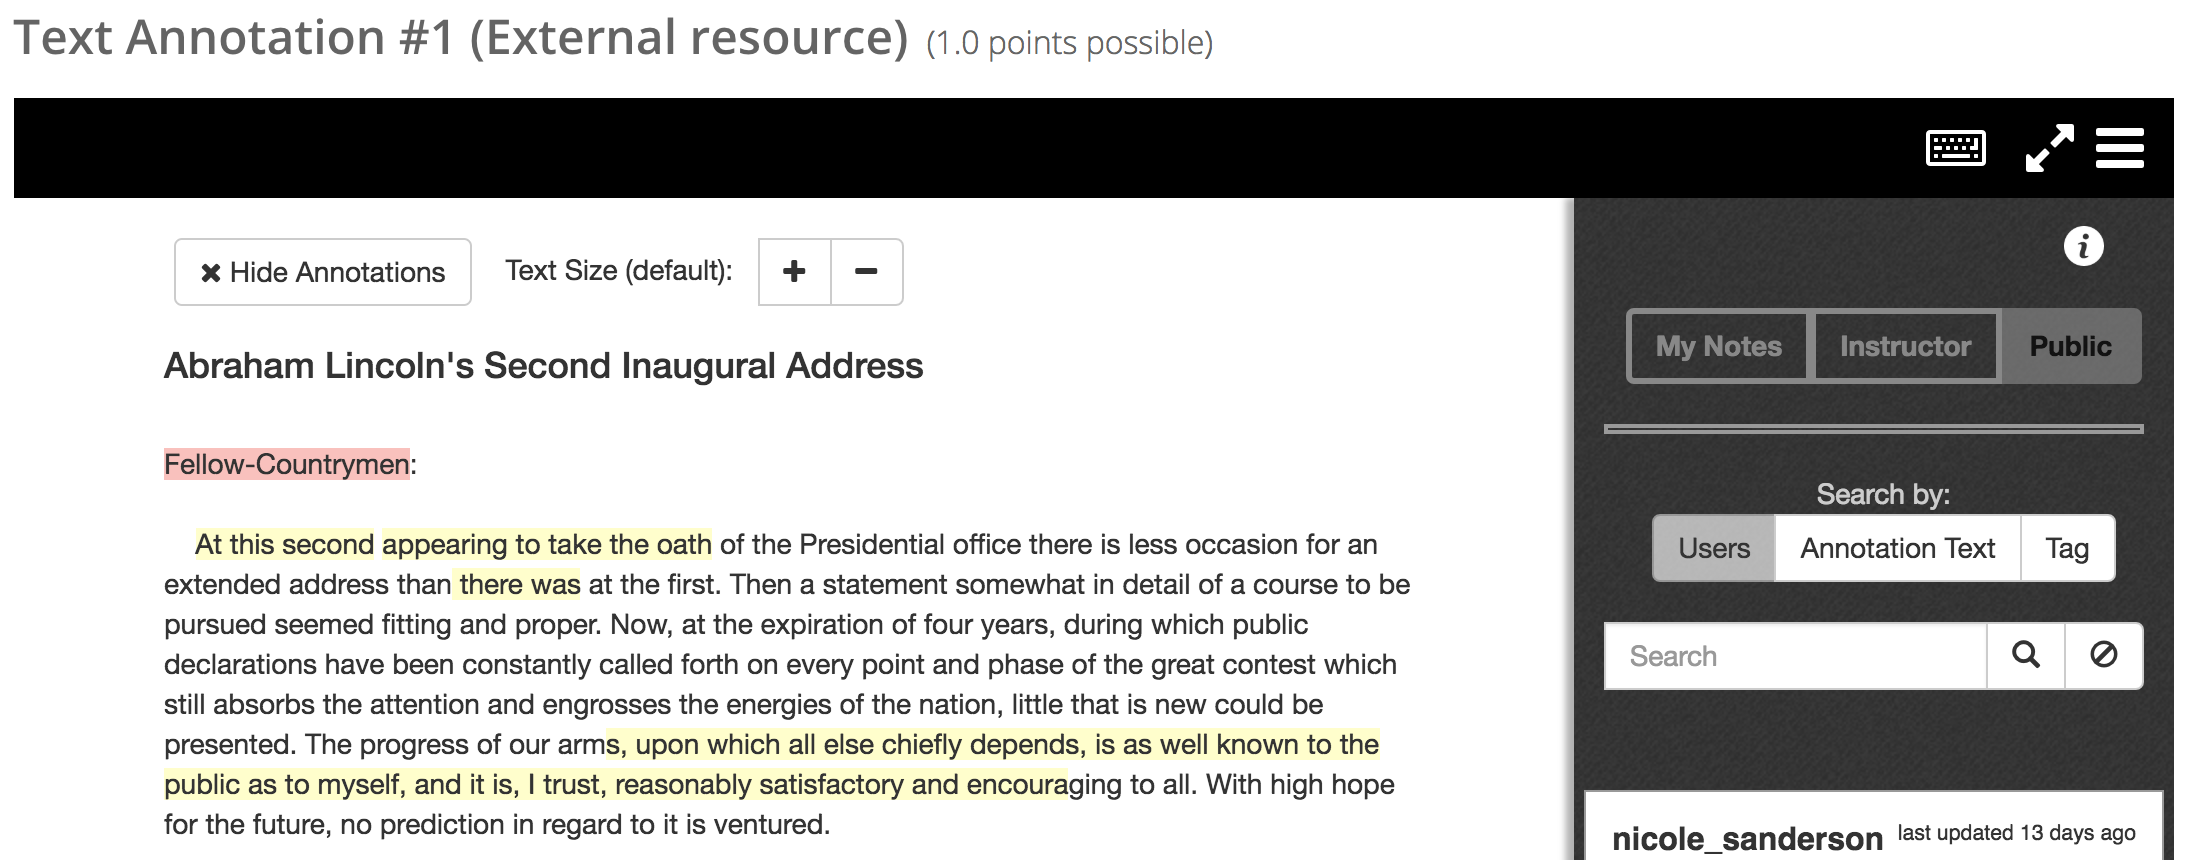
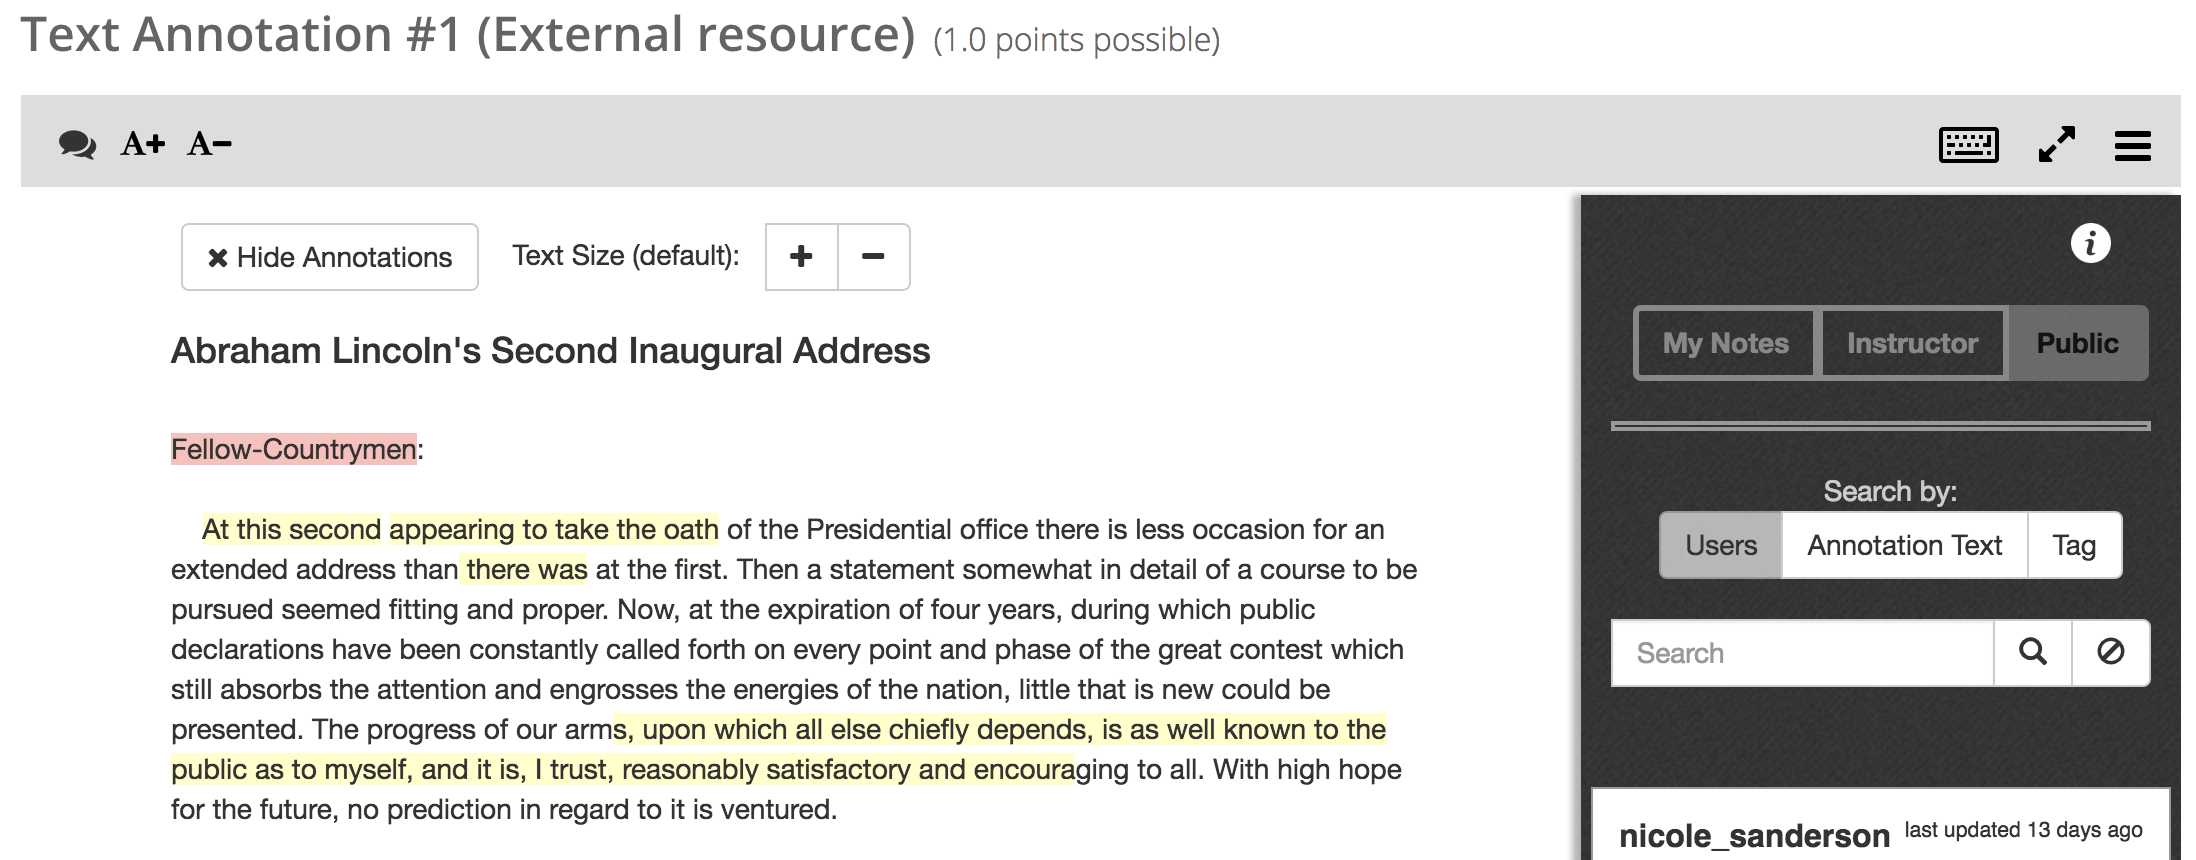
Add files via upload
Proposed nav bar for Text Annotation

diff --git a/UX/hxat-textAnnotation_navbar/index.html b/UX/hxat-textAnnotation_navbar/index.html
@@ -8,8 +8,8 @@
 <!--css/annotation_base.4c072fc38ef7.css-->
 #navigationBar {
     position: fixed;
-    height: 50px;
-    background: black;
+    height: 46px;
+    background: #dddddd;
     top: 0;
     display: block;
     width: 100%;
@@ -18,9 +18,10 @@
 }
 
 .pagination {
-    width: 300px;
+    width: 200px;
     overflow: auto;
     margin-top: 0px;
+    margin-left: 1em;
 }
 
 #keyboard-input-toggle-text {
@@ -28,23 +29,23 @@
     float: right;
     margin-top: 10px;
     font-size: 2em;
-    color: white;
+    color: black;
     cursor: pointer;
 }
 
 .annotation-fullscreen {
-    color: white;
+    color: black;
     float: right;
-    margin-right: 50px;
-    margin-top: 5px;
-    font-size: 2em;
+    margin-right: 53px;
+    margin-top: 9px;
+    font-size: 1.5em;
     cursor: pointer;
 }
 
 .handle-button {
     position: absolute;
     float: right;
-    top: 5px;
+    top: 10px;
     right: 15px;
     font-size: 2em;
     color: white;
@@ -54,13 +55,31 @@
 <!--css/instructions.92de67b8ccc3.css-->
 .target-object-controls {
     padding: 10px 0;
-    margin: 10px 0 0 0;
+    margin: 4px 0 0 0;
 }
 
 <!--UI code-->
 <nav role="navigation" id="navigationBar" aria-label="Annotation Tool">
 
     <div class="pagination">
+
+        <div class="btn-toolbar target-object-controls" role="toolbar" aria-label="Annotation toolbar controls">
+            <div class="btn-group" role="group" aria-label="Hide or Show Annotations">
+                <i class="fa fa-lg fa-comments"></i> <span class="labeltext" hidden>Hide or Show Annotations</span>
+            </div>
+            <div class="btn-group" role="group" aria-label="Control Annotation Text Size" aria-live="polite">
+                <div class="pull-left" style="padding: 6px 12px;" hidden>Text Size <span id="annotations-text-size-label">(default)</span>:
+                </div>
+                <a aria-label="Increase font size" id="annotations-text-size-plus" type="button"
+                        role="button" style="color: black; text-decoration: none; margin-left: .5em;">
+                    <i class="fa fa-font" aria-hidden="true"></i><small><i class="fa fa-plus" aria-hidden="true"></i></small>
+                </a>
+                <a aria-label="Decrease font size" id="annotations-text-size-minus" type="button"
+                        role="button" style="color: black; text-decoration: none; margin-left: .5em;">
+                    <i class="fa fa-font" aria-hidden="true"></i><small><i class="fa fa-minus" aria-hidden="true"></i></small>
+                </a>
+            </div>
+        </div>
 
 
     </div>
@@ -76,7 +95,7 @@
          id="keyboard-input-toggle-text" tabindex="0"></div>
 
 
-    <div class="logo" aria-label="HarvardX Logo">
+    <div class="logo" aria-label="HarvardX Logo" hidden>
         <img src="/static/css/images/hx_inv.feb90e6fec5b.png" style="height:40px;" alt="HarvardX Logo">
     </div>
 
@@ -86,23 +105,4 @@
 
 ...
 
-<div class="btn-toolbar target-object-controls" role="toolbar" aria-label="Annotation toolbar controls">
-    <div class="btn-group" role="group" aria-label="Hide or Show Annotations">
-        <button id="annotations-status" type="button" class="btn btn-default on" aria-label="Hide Annotations">
-            <i class="fa fa-close"></i> <span class="labeltext">Hide Annotations</span>
-        </button>
-    </div>
-    <div class="btn-group" role="group" aria-label="Control Annotation Text Size" aria-live="polite">
-        <div class="pull-left" style="padding: 6px 12px;">Text Size <span
-                id="annotations-text-size-label">(default)</span>:
-        </div>
-        <button aria-label="Increase font size" id="annotations-text-size-plus" type="button" class="btn btn-default"
-                role="button">
-            <i class="fa fa-plus" aria-hidden="true"></i>
-        </button>
-        <button aria-label="Decrease font size" id="annotations-text-size-minus" type="button" class="btn btn-default"
-                role="button">
-            <i class="fa fa-minus" aria-hidden="true"></i>
-        </button>
-    </div>
-</div>
+
